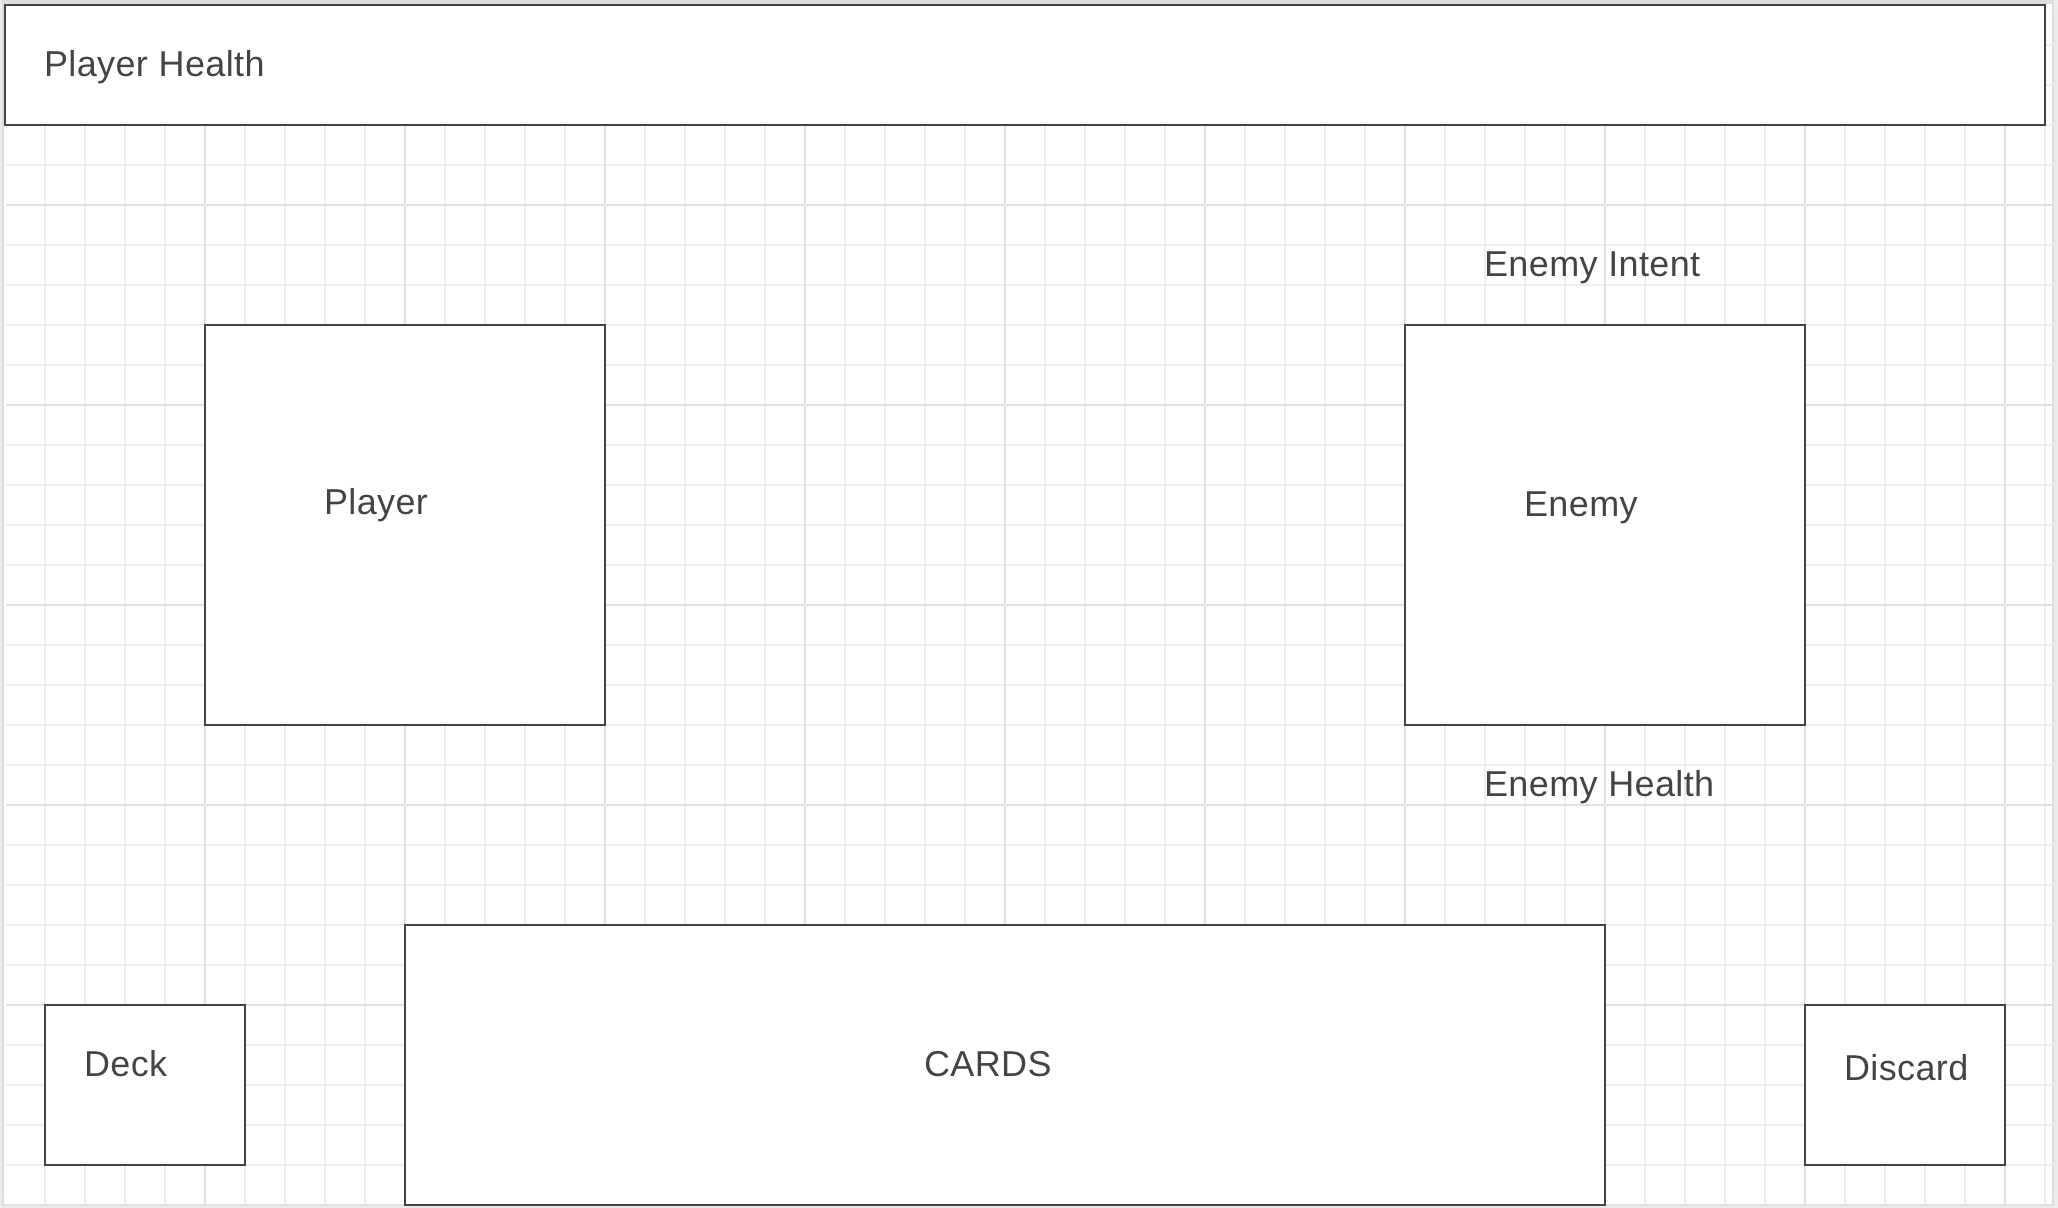
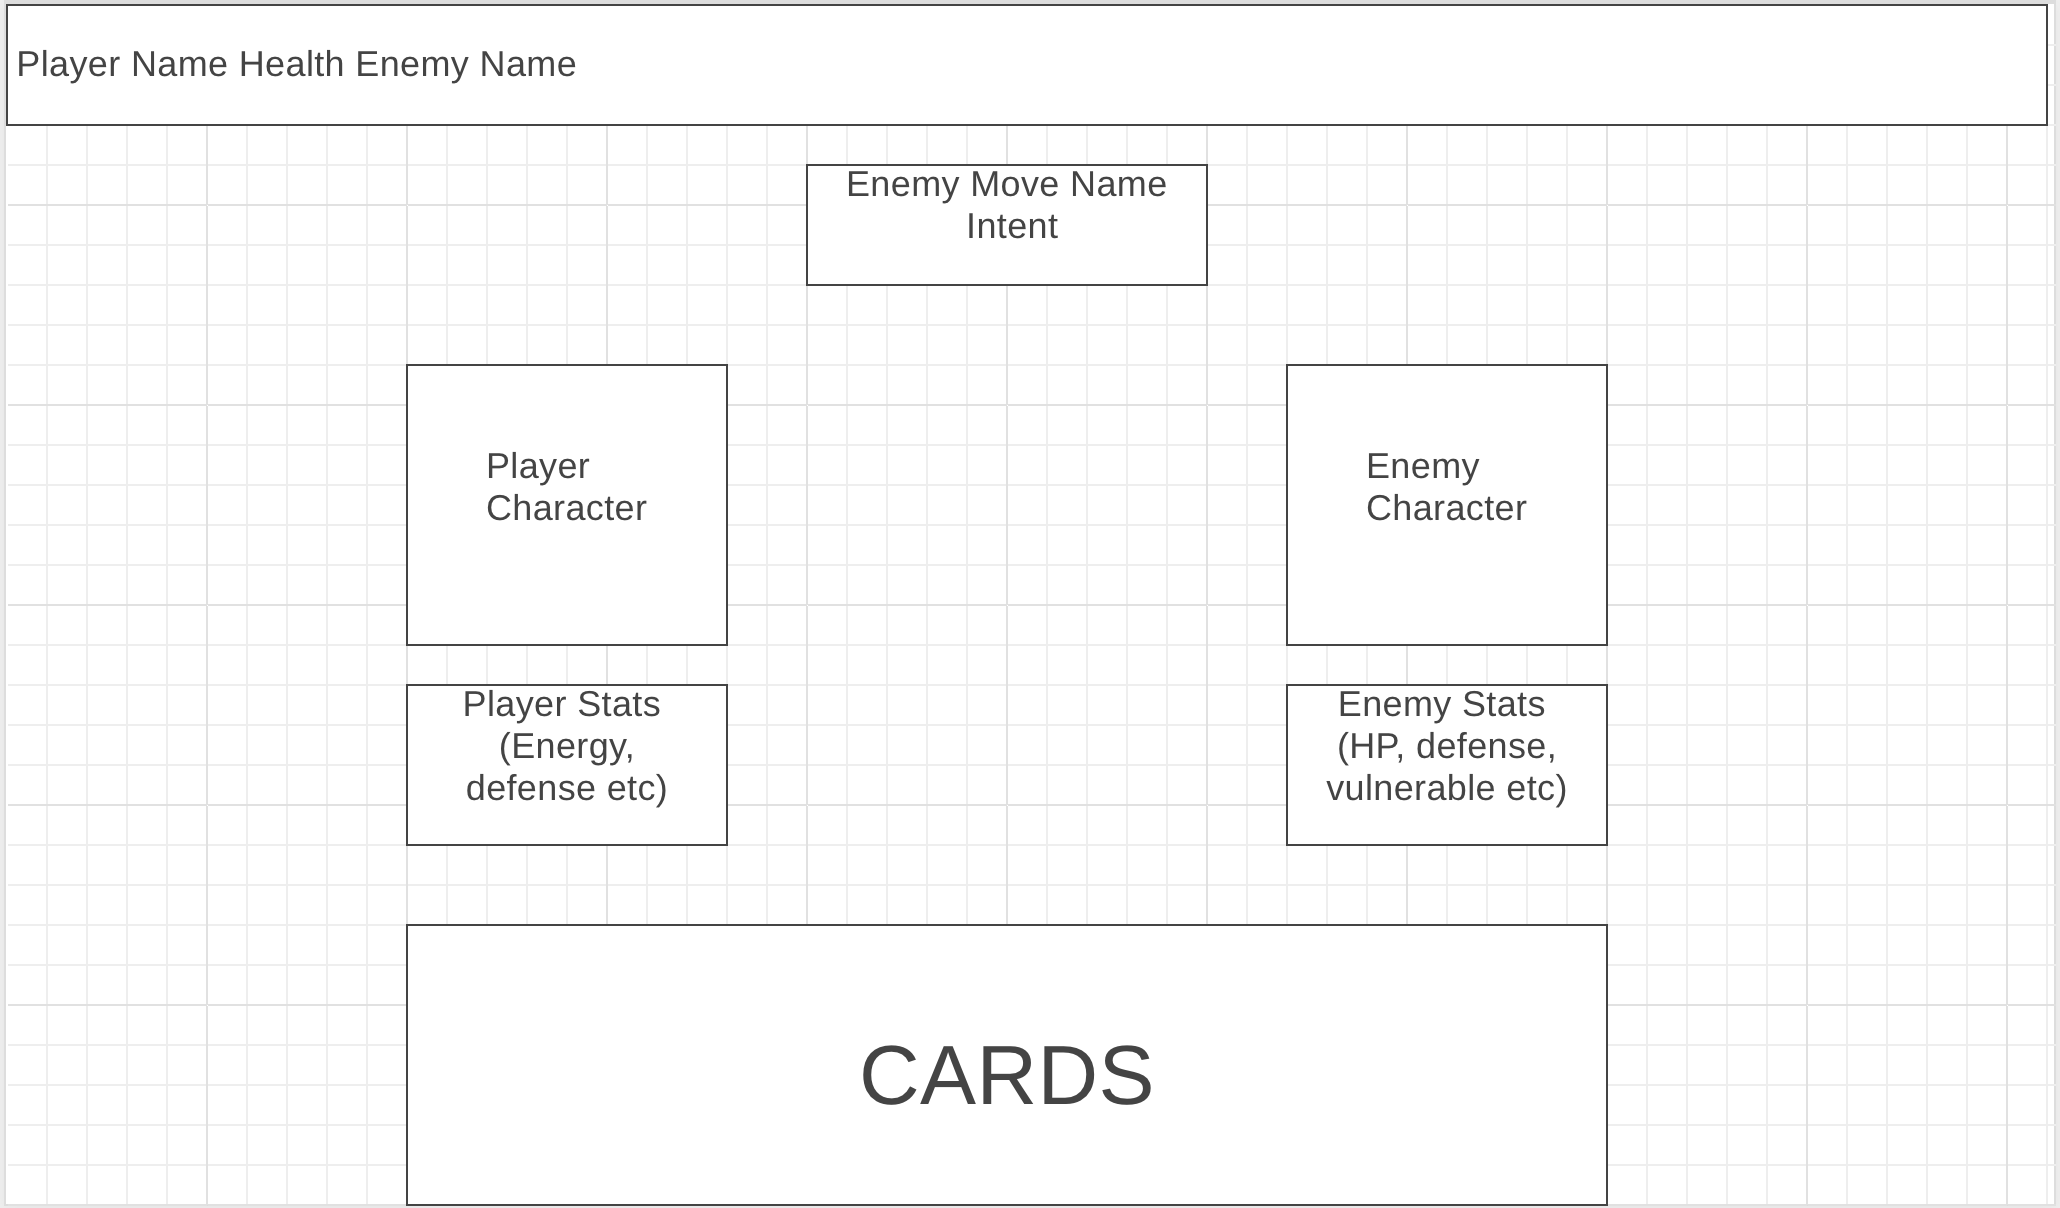
Production readme

diff --git a/src/scripts/game.js b/src/scripts/game.js
@@ -415,13 +415,13 @@ document.addEventListener("DOMContentLoaded", () => {
 
     function drawCard(){
         if (soundOn === true) {
-            var audio = `./src/sounds/cardDraw.mp3`
+            var audio = `./src/sounds/cardDraw.mp3`;
             playAudio(audio, true);
         };
         let cardList = document.querySelector('.card-list');
         if (handSize >= maxHandSize){
-            let text = document.querySelector(".addCard")
-            text.innerHTML = `Your hand is full!`
+            let text = document.querySelector(".addCard");
+            text.innerHTML = `Your hand is full!`;
             setTimeout(function () { text.innerHTML = "" }, 4000);
         } else {
         if (deck.length === 0) {
@@ -468,19 +468,19 @@ document.addEventListener("DOMContentLoaded", () => {
                     player.energy -= card.cost;
                     let attackValue = (card.attack + player.strength);
                     if (enemy.vulnerable > 0) {
-                        attackValue *= 1.5
+                        attackValue *= 1.5;
                     }
                     switch (card.name) {
                         case "Body Slam":
                             if (soundOn === true) {
-                                var audio = `./src/sounds/bodySlam.mp3`
+                                var audio = `./src/sounds/bodySlam.mp3`;
                                 playAudio(audio);
                             };
                             damageApply(player.defense);
                             break;
                         case "Defend":
                             if (soundOn === true) {
-                                var audio = `./src/sounds/defense.mp3`
+                                var audio = `./src/sounds/defense.mp3`;
                                 playAudio(audio);
                             };
                             player.defense += card.defense;
@@ -488,7 +488,7 @@ document.addEventListener("DOMContentLoaded", () => {
                             break;
                         case "Defensive Attack":
                             if (soundOn === true) {
-                                var audio = `./src/sounds/defensiveAttack.mp3`
+                                var audio = `./src/sounds/defensiveAttack.mp3`;
                                 playAudio(audio);
                             };
                             damageApply(attackValue);
@@ -497,7 +497,7 @@ document.addEventListener("DOMContentLoaded", () => {
                             break;
                         case "Punch":
                             if (soundOn === true) {
-                                var audio = `./src/sounds/punch.mp3`
+                                var audio = `./src/sounds/punch.mp3`;
                                 playAudio(audio);
                             };
                             damageApply(attackValue);
@@ -505,7 +505,7 @@ document.addEventListener("DOMContentLoaded", () => {
                             break;
                         case "Really Angry Yelling":
                             if (soundOn === true) {
-                                var audio = `./src/sounds/reallyAngry.mp3`
+                                var audio = `./src/sounds/reallyAngry.mp3`;
                                 playAudio(audio);
                             };
                             damageApply(attackValue);
@@ -514,7 +514,7 @@ document.addEventListener("DOMContentLoaded", () => {
                             break;
                         case "Shell Harden":
                             if (soundOn === true) {
-                                var audio = `./src/sounds/harden.mp3`
+                                var audio = `./src/sounds/harden.mp3`;
                                 playAudio(audio);
                             };
                             player.strength += card.gainStrength;
@@ -524,11 +524,11 @@ document.addEventListener("DOMContentLoaded", () => {
                             break;
                         case "Shrug It Off":
                             if (soundOn === true) {
-                                var audio = `./src/sounds/defense.mp3`
+                                var audio = `./src/sounds/defense.mp3`;
                                 playAudio(audio);
                             };
                             if (soundOn === true) {
-                                var audio = `./src/sounds/cardDraw.mp3`
+                                var audio = `./src/sounds/cardDraw.mp3`;
                                 playAudio(audio);
                             };
                             player.defense += card.defense;
@@ -537,13 +537,13 @@ document.addEventListener("DOMContentLoaded", () => {
                             break;
                         case "Tip-Top-Tep-Tup-Tap":
                             if (soundOn === true) {
-                                var audio = `./src/sounds/tipTap.mp3`
+                                var audio = `./src/sounds/tipTap.mp3`;
                                 playAudio(audio);
                             };
-                            let i = 0
+                            let i = 0;
                             while (i < 5) {
                                 damageApply(attackValue);
-                                i += 1
+                                i += 1;
                             }
                             handSize -= 1;
                             break;
@@ -561,8 +561,8 @@ document.addEventListener("DOMContentLoaded", () => {
                         this.remove(this);
                     }
                 } else {
-                    let text = document.querySelector(".addCard")
-                    text.innerHTML = `You have not enough energy`
+                    let text = document.querySelector(".addCard");
+                    text.innerHTML = `You have not enough energy`;
                     setTimeout(function () { text.innerHTML = "" }, 4000);
                 }
               } 

diff --git a/README.md b/README.md
@@ -1,6 +1,6 @@
-# Space Turtle Origins
-# A light deckbuilding roguelite to practice vanilla JS
-
+![spaceTurtle](./ghread.png)
+# A light deckbuilding roguelite using vanilla Javascript, HTML and CSS.
+[Try the game for yourself!](https://kunzels.github.io/SpaceTurtle/)
 ## Functionality and MVP
 
   * Play cards to boost your powers, attack enemies, or create defenses.
@@ -9,13 +9,72 @@
 
 ## Basic gameplay
 
+![howTo](./howTo.png)
+
 * The user is shown exactly what the enemy will do on their turn, attack, defend, and precise values
 * The user chooses which cards to play from cards drawn each turn. 
 * Attacking lowers the enemy HP, while defending adds block to your character, removed each turn
 * After defeating an enemy, you can choose a card to add to your deck.
 
+![addCard](./addCard.png)
+
+## Challanges
+
+One interesting challange from this project was making it so enemies and cards could be easilly added. I wanted to make sure that if I wanted to add a new card or enemy it wouldn't be too troublesome.  Now, making a new card or enemy is only limited by the time it takes to make the art and voicelines. Adding a card, enemy, or concept is a pretty quick refactor of the code.
+
+Another challange was getting the deck to shuffle accuratly, and to make cards know what they will do.  I was able to make exhaust cards work as well by moving around these objects.  
+<!-- ```javascript
+let enemy = {
+        name: "Grumby", maxHealth: 40, hitPoints: 40, defense: 0, strength: 0, vulnerable: 0, weak: 0, moves: [
+            { name: 'Bop', impact: "attack", attack: 6, sound:`./src/sounds/grumbyAttack` },
+            { name: 'Cower', impact: "defend", defense: 6, sound:`./src/sounds/grumbyDefend` }
+        ]}
+    const enemies = [
+        { name: "Grumby's Older Brother, Charles", 
+                    maxHealth: 60, 
+                    hitPoints: 60, 
+                    defense: 0, 
+                    strength: 0, 
+                    vulnerable: 0, 
+                    weak: 0,           
+                    moves: [
+                        { name: "'Where's my brudda?'", impact: "defend", defense: 15 },
+                        { name: "'I'm bop ya!'", impact: "attack", attack: 8 },
+                        { name: "'I'm smash ya!'", impact: "attack", attack: 12 },
+                        { name: "'I'm take a break!'", impact: "defend", defense: 10 }
+                    ]
+        },
+        { name: "The Goblin Kings Assassin",
+                maxHealth: 120,
+                hitPoints: 120,
+                defense: 0,
+                strength: 0,
+                vulnerable: 0,
+                weak: 0,
+                moves: [
+                    {name: "'You've been causing problems...'", impact: "embolden", defense: 15, gainStrength: 1 },
+                    {name: "'Sharpening my blades...'", impact: "embolden", defense: 5, gainStrength: 2 },
+                    {name: "'You will pay for your incursion...'", impact: "embiggen", attack: 1, gainStrength: 1 },
+                    {name: "'These blades only get stronger...'", impact: "embiggen", attack: 1, gainStrength: 1 },
+                    {name: "' Better run kid...'", impact: "embiggen", attack: 1, gainStrength: 1 },
+                    {name: "' huh...'", impact: "defend", defense: 20 }
+                ]
+        },
+``` -->
+
+## Future Directions
+    Though this is a project to show programming ability, if I were to continue working on it, I would look into features present in popular deckbuilding roguelite games (ie: Slay The Spire), such as: 
+
+  * Display deck and discard.
+  * Add gold, shops, card removal, stores, healing.
+  * A map to choose your path.
+  * Multiple enemies.
+  * Upgrade cards.
+  * Better animations.
+  * Card dragging and releasing.
+  * Etc.
 
 ### WireFrame
-  * The game will consist of a single battle screen and static placements for enemies and players. You can drag cards from your card area onto an enemy to activate them. Enemy will display intent and lower HP when dealt damage. Cards are drawn and discarded, and shuffled when the draw pile is empty. 
+  * The game will consist of a single battle screen and static placements for enemies and players. You can play cards from your hand to activate them. Enemy will display intent and lower HP when dealt damage. Cards are drawn and discarded, and shuffled when the draw pile is empty. 
 
 ![wireframe](./turtle.png)
